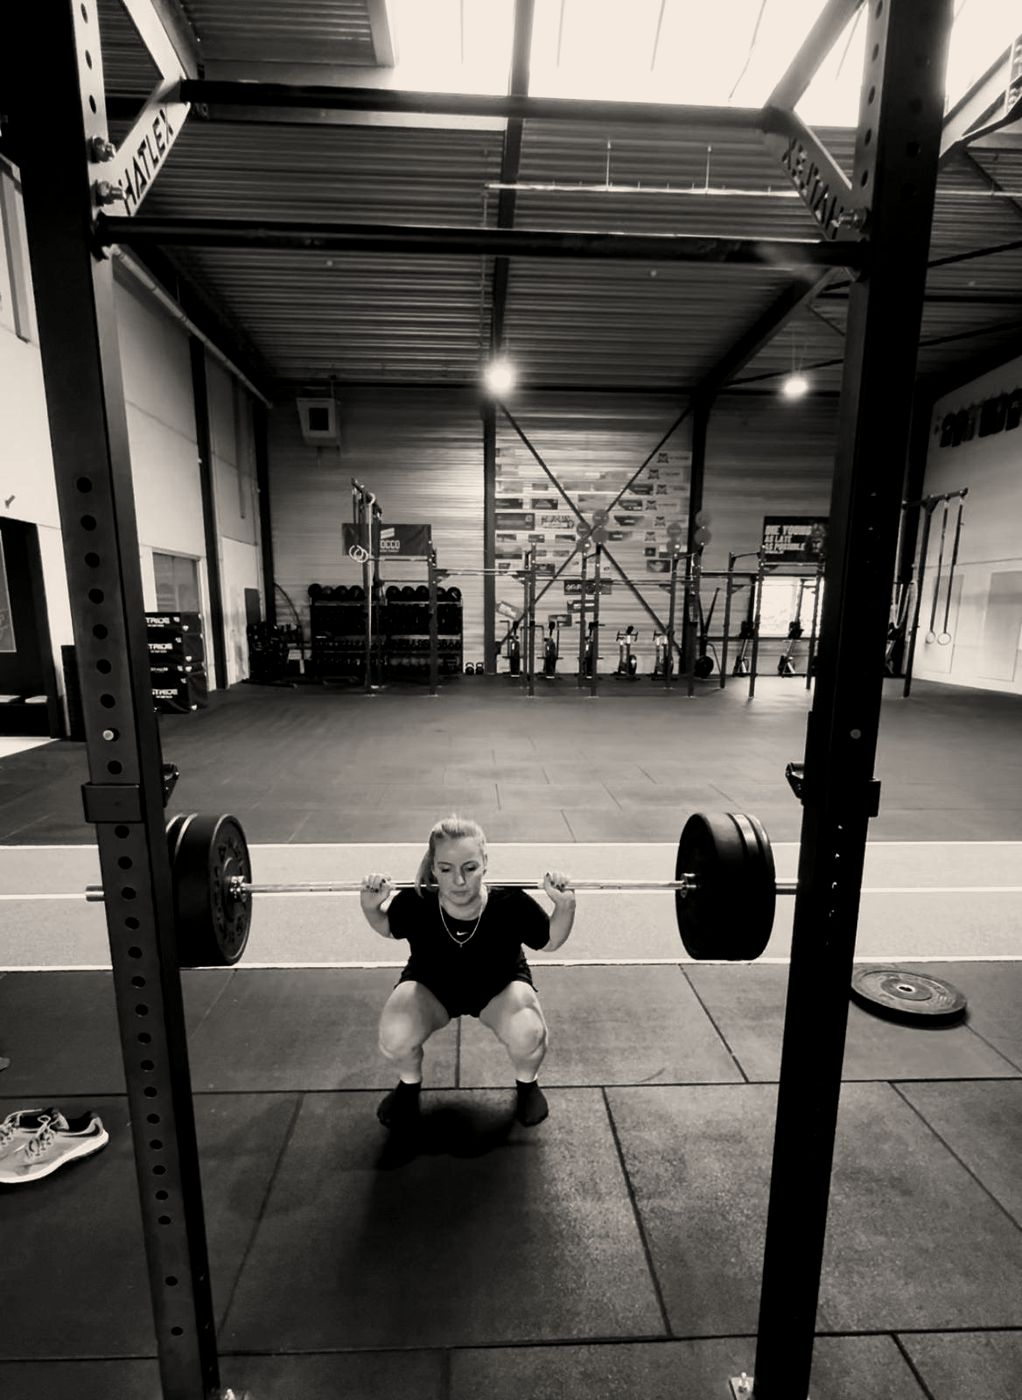
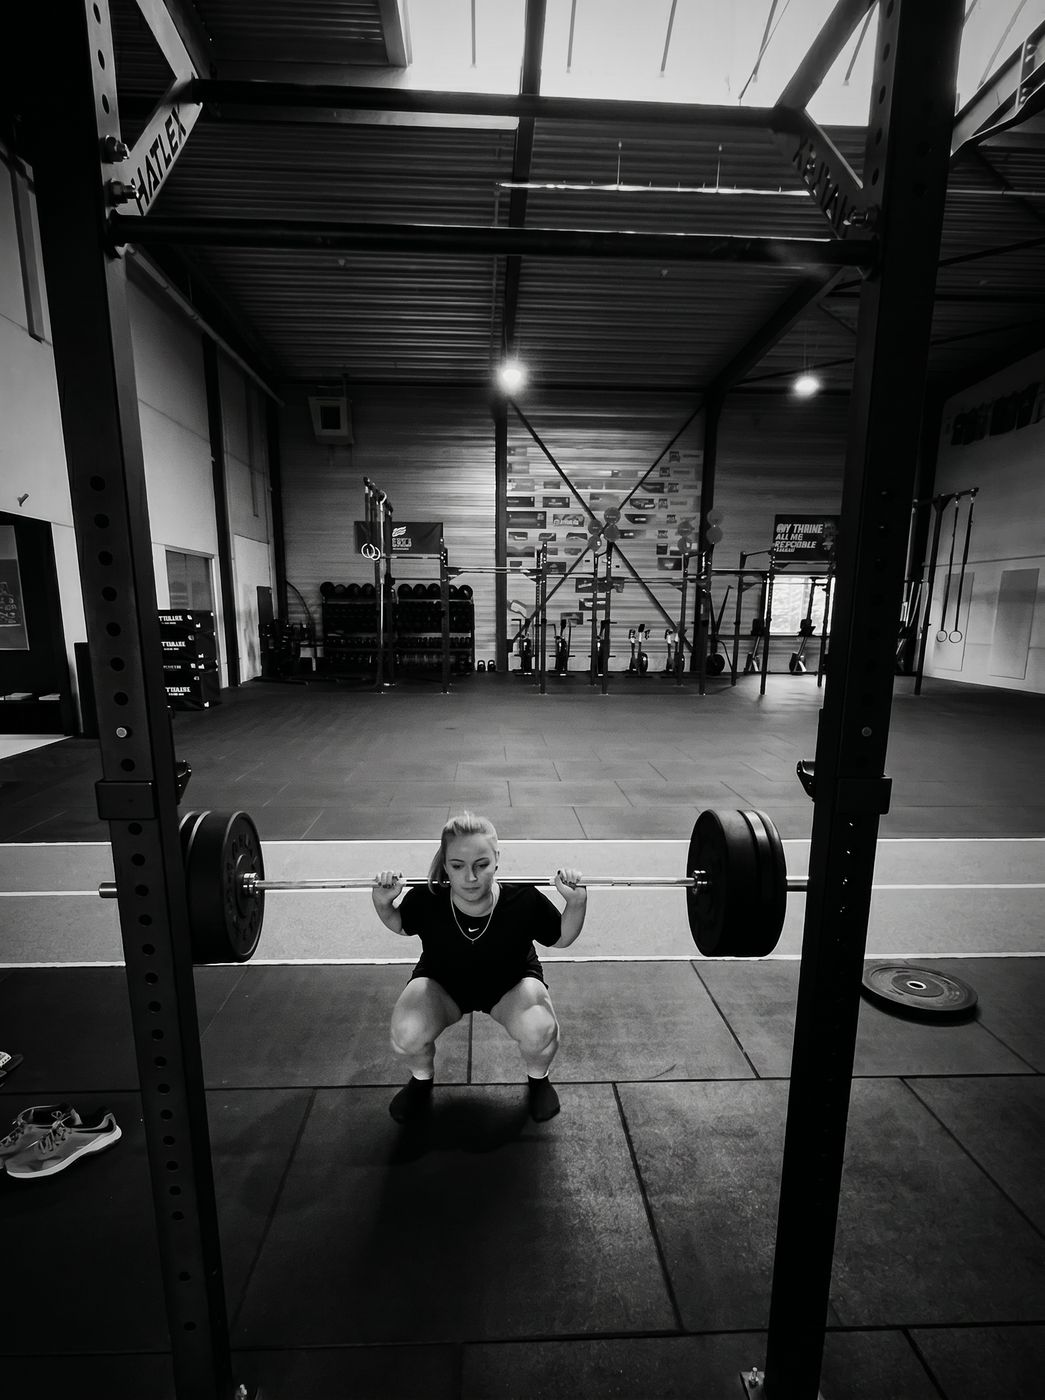
Foto's door Higgsfield gehaald: cinematische relight in de originele site-vibe
Alle 10 eigen foto's via Nano Banana (image-to-image) herbelicht naar de
donkere, dramatische look van de oorspronkelijke stockfotografie — zelfde
mensen, zelfde scènes (gezichten geverifieerd identiek), alleen licht en
kleurgrading anders. Cache-bust ?v=2 → ?v=3.

diff --git a/index.html b/index.html
@@ -152,10 +152,10 @@
     <section class="hero">
       <div class="hero__media">
         <picture>
-          <source media="(min-width: 880px)" srcset="assets/img/hero-desktop.jpg?v=2" />
-          <img src="assets/img/hero-mobile.jpg?v=2" alt="Leden trainen aan het rig bij Effort in Kapellen" fetchpriority="high" />
+          <source media="(min-width: 880px)" srcset="assets/img/hero-desktop.jpg?v=3" />
+          <img src="assets/img/hero-mobile.jpg?v=3" alt="Leden trainen aan het rig bij Effort in Kapellen" fetchpriority="high" />
         </picture>
-        <video muted loop playsinline preload="none" poster="assets/img/hero-mobile.jpg?v=2" aria-hidden="true">
+        <video muted loop playsinline preload="none" poster="assets/img/hero-mobile.jpg?v=3" aria-hidden="true">
           <source src="assets/video/hero.mp4" type="video/mp4" />
         </video>
       </div>
@@ -195,7 +195,7 @@
           </div>
           <div class="media-frame media-frame--wide reveal" data-d="1">
             <!-- Vervang door een échte foto van de box / community -->
-            <img src="assets/img/gym.jpg?v=2" alt="De trainingsvloer van Effort België" loading="lazy" />
+            <img src="assets/img/gym.jpg?v=3" alt="De trainingsvloer van Effort België" loading="lazy" />
             <span class="media-frame__tag">De box · Kapellen</span>
           </div>
         </div>
@@ -219,21 +219,21 @@
         </div>
         <div class="grid grid--3">
           <article class="card offer reveal">
-            <div class="offer__img"><img src="assets/img/class-group.jpg?v=2" alt="Groepsles in volle gang" loading="lazy" /></div>
+            <div class="offer__img"><img src="assets/img/class-group.jpg?v=3" alt="Groepsles in volle gang" loading="lazy" /></div>
             <div class="offer__body">
               <h3>Groeps<span>lessen</span></h3>
               <p>Bewegen, sterker worden en op een gezonde manier grenzen verleggen. Constant gevarieerde, functionele bewegingen onder hoge intensiteit — in groepen van max. 10, individueel aangepast.</p>
             </div>
           </article>
           <article class="card offer reveal" data-d="1">
-            <div class="offer__img"><img src="assets/img/barbell.jpg?v=2" alt="Geladen barbell op de gym vloer" loading="lazy" /></div>
+            <div class="offer__img"><img src="assets/img/barbell.jpg?v=3" alt="Geladen barbell op de gym vloer" loading="lazy" /></div>
             <div class="offer__body">
               <h3>Open <span>Gym</span></h3>
               <p>Liever solo? Train vrij tijdens de open gym uren, met dagelijkse toegang. Met of zonder persoonlijk programma — helemaal jouw personal effort.</p>
             </div>
           </article>
           <article class="card offer reveal" data-d="2">
-            <div class="offer__img"><img src="assets/img/grip.jpg?v=2" alt="Leden aan de pull-up bar bij Effort" loading="lazy" /></div>
+            <div class="offer__img"><img src="assets/img/grip.jpg?v=3" alt="Leden aan de pull-up bar bij Effort" loading="lazy" /></div>
             <div class="offer__body">
               <h3>Personal <span>Training</span></h3>
               <p>1-op-1 begeleiding door onze specialisten. In samenwerking met kinepraktijk <strong>Level up</strong> ook voor revalidatie na blessures.</p>
@@ -271,7 +271,7 @@
     <section class="section">
       <div class="container">
         <div class="cta-band reveal">
-          <div class="cta-band__bg"><img src="assets/img/team.jpg?v=2" alt="" loading="lazy" /></div>
+          <div class="cta-band__bg"><img src="assets/img/team.jpg?v=3" alt="" loading="lazy" /></div>
           <div class="cta-band__inner">
             <p class="eyebrow">It's a team effort</p>
             <h2 class="mt-s">Een plek waar iedereen <span class="text-red">zichzelf</span> kan zijn</h2>
@@ -341,7 +341,7 @@
     <section class="section">
       <div class="container">
         <div class="cta-band reveal">
-          <div class="cta-band__bg"><img src="assets/img/kettlebells.jpg?v=2" alt="" loading="lazy" /></div>
+          <div class="cta-band__bg"><img src="assets/img/kettlebells.jpg?v=3" alt="" loading="lazy" /></div>
           <div class="cta-band__inner">
             <p class="eyebrow">Get started</p>
             <h2 class="mt-s">Ben jij er <span class="text-red">klaar</span> voor?</h2>

diff --git a/aanbod.html b/aanbod.html
@@ -96,7 +96,7 @@
 
   <main>
     <section class="page-hero">
-      <div class="page-hero__bg"><img src="assets/img/class-group.jpg?v=2" alt="" /></div>
+      <div class="page-hero__bg"><img src="assets/img/class-group.jpg?v=3" alt="" /></div>
       <div class="container">
         <p class="crumbs"><a href="index.html">Home</a> / <span>Aanbod</span></p>
         <p class="eyebrow">Aanbod</p>
@@ -110,7 +110,7 @@
       <div class="container">
         <div class="split">
           <div class="media-frame media-frame--tall reveal">
-            <img src="assets/img/class-group.jpg?v=2" alt="Groepsles in volle gang" loading="lazy" />
+            <img src="assets/img/class-group.jpg?v=3" alt="Groepsles in volle gang" loading="lazy" />
             <span class="media-frame__tag">Groepslessen · max. 10</span>
           </div>
           <div class="reveal" data-d="1">
@@ -138,7 +138,7 @@
             <a class="link-arrow mt-m" href="prijzen.html">Bekijk de Open Gym formule <span>→</span></a>
           </div>
           <div class="media-frame media-frame--tall reveal" data-d="1">
-            <img src="assets/img/barbell.jpg?v=2" alt="Geladen barbell in de box" loading="lazy" />
+            <img src="assets/img/barbell.jpg?v=3" alt="Geladen barbell in de box" loading="lazy" />
             <span class="media-frame__tag">Open Gym · dagelijks</span>
           </div>
         </div>
@@ -150,7 +150,7 @@
       <div class="container">
         <div class="split">
           <div class="media-frame media-frame--tall reveal">
-            <img src="assets/img/grip.jpg?v=2" alt="Leden aan de pull-up bar bij Effort" loading="lazy" />
+            <img src="assets/img/grip.jpg?v=3" alt="Leden aan de pull-up bar bij Effort" loading="lazy" />
             <span class="media-frame__tag">Personal Training · 1-op-1</span>
           </div>
           <div class="reveal" data-d="1">
@@ -166,7 +166,7 @@
 
     <!-- SOORTEN LESSEN -->
     <section class="section" id="lestypes" style="position:relative; overflow:hidden; background:var(--ink-1); border-top:1px solid var(--line);">
-      <div class="page-hero__bg" style="opacity:.12; z-index:0;"><img src="assets/img/chalk.jpg?v=2" alt="" loading="lazy" /></div>
+      <div class="page-hero__bg" style="opacity:.12; z-index:0;"><img src="assets/img/chalk.jpg?v=3" alt="" loading="lazy" /></div>
       <div class="container" style="position:relative; z-index:2;">
         <div class="section-head reveal">
           <p class="eyebrow">Soorten lessen</p>
@@ -207,7 +207,7 @@
     <section class="section section--tight">
       <div class="container">
         <div class="cta-band reveal">
-          <div class="cta-band__bg"><img src="assets/img/kettlebells.jpg?v=2" alt="" loading="lazy" /></div>
+          <div class="cta-band__bg"><img src="assets/img/kettlebells.jpg?v=3" alt="" loading="lazy" /></div>
           <div class="cta-band__inner">
             <p class="eyebrow">Get started</p>
             <h2 class="mt-s">Probeer het gewoon eens</h2>

diff --git a/crossfit-wuustwezel.html b/crossfit-wuustwezel.html
@@ -96,7 +96,7 @@
 
   <main>
     <section class="page-hero">
-      <div class="page-hero__bg"><img src="assets/img/gym.jpg?v=2" alt="" /></div>
+      <div class="page-hero__bg"><img src="assets/img/gym.jpg?v=3" alt="" /></div>
       <div class="container">
         <p class="eyebrow">Regio · Wuustwezel</p>
         <h1>CrossFit <br /><span class="text-red">vlakbij Wuustwezel</span></h1>
@@ -113,7 +113,7 @@
       <div class="container">
         <div class="split">
           <div class="media-frame media-frame--tall reveal">
-            <img src="assets/img/class-group.jpg?v=2" alt="Groepsles bij Effort, de CrossFit-box op de drempel van Wuustwezel" loading="lazy" />
+            <img src="assets/img/class-group.jpg?v=3" alt="Groepsles bij Effort, de CrossFit-box op de drempel van Wuustwezel" loading="lazy" />
             <span class="media-frame__tag">Effort · Gooreind</span>
           </div>
           <div class="reveal" data-d="1">
@@ -139,7 +139,7 @@
             <a class="link-arrow mt-m" href="get-started.html">Zo verloopt je eerste les <span>→</span></a>
           </div>
           <div class="media-frame media-frame--tall reveal" data-d="1">
-            <img src="assets/img/grip.jpg?v=2" alt="Leden aan de pull-up bar bij Effort" loading="lazy" />
+            <img src="assets/img/grip.jpg?v=3" alt="Leden aan de pull-up bar bij Effort" loading="lazy" />
             <span class="media-frame__tag">Op jouw niveau</span>
           </div>
         </div>

diff --git a/crossfit-kalmthout.html b/crossfit-kalmthout.html
@@ -96,7 +96,7 @@
 
   <main>
     <section class="page-hero">
-      <div class="page-hero__bg"><img src="assets/img/gym.jpg?v=2" alt="" /></div>
+      <div class="page-hero__bg"><img src="assets/img/gym.jpg?v=3" alt="" /></div>
       <div class="container">
         <p class="eyebrow">Regio · Kalmthout</p>
         <h1>CrossFit <br /><span class="text-red">vlakbij Kalmthout</span></h1>
@@ -113,7 +113,7 @@
       <div class="container">
         <div class="split">
           <div class="media-frame media-frame--tall reveal">
-            <img src="assets/img/class-group.jpg?v=2" alt="Groepsles bij Effort, de CrossFit-box vlakbij Kalmthout" loading="lazy" />
+            <img src="assets/img/class-group.jpg?v=3" alt="Groepsles bij Effort, de CrossFit-box vlakbij Kalmthout" loading="lazy" />
             <span class="media-frame__tag">Effort · Gooreind</span>
           </div>
           <div class="reveal" data-d="1">
@@ -139,7 +139,7 @@
             <a class="link-arrow mt-m" href="get-started.html">Zo verloopt je eerste les <span>→</span></a>
           </div>
           <div class="media-frame media-frame--tall reveal" data-d="1">
-            <img src="assets/img/grip.jpg?v=2" alt="Leden aan de pull-up bar bij Effort" loading="lazy" />
+            <img src="assets/img/grip.jpg?v=3" alt="Leden aan de pull-up bar bij Effort" loading="lazy" />
             <span class="media-frame__tag">Op jouw niveau</span>
           </div>
         </div>

diff --git a/crossfit-brasschaat.html b/crossfit-brasschaat.html
@@ -96,7 +96,7 @@
 
   <main>
     <section class="page-hero">
-      <div class="page-hero__bg"><img src="assets/img/gym.jpg?v=2" alt="" /></div>
+      <div class="page-hero__bg"><img src="assets/img/gym.jpg?v=3" alt="" /></div>
       <div class="container">
         <p class="eyebrow">Regio · Brasschaat</p>
         <h1>CrossFit <br /><span class="text-red">voor Brasschaat</span></h1>
@@ -113,7 +113,7 @@
       <div class="container">
         <div class="split">
           <div class="media-frame media-frame--tall reveal">
-            <img src="assets/img/class-group.jpg?v=2" alt="Groepsles bij Effort, de CrossFit-box voor Brasschaat" loading="lazy" />
+            <img src="assets/img/class-group.jpg?v=3" alt="Groepsles bij Effort, de CrossFit-box voor Brasschaat" loading="lazy" />
             <span class="media-frame__tag">Effort · Gooreind</span>
           </div>
           <div class="reveal" data-d="1">
@@ -139,7 +139,7 @@
             <a class="link-arrow mt-m" href="get-started.html">Zo verloopt je eerste les <span>→</span></a>
           </div>
           <div class="media-frame media-frame--tall reveal" data-d="1">
-            <img src="assets/img/grip.jpg?v=2" alt="Leden aan de pull-up bar bij Effort" loading="lazy" />
+            <img src="assets/img/grip.jpg?v=3" alt="Leden aan de pull-up bar bij Effort" loading="lazy" />
             <span class="media-frame__tag">Op jouw niveau</span>
           </div>
         </div>

diff --git a/prijzen.html b/prijzen.html
@@ -102,7 +102,7 @@
 
   <main>
     <section class="page-hero">
-      <div class="page-hero__bg"><img src="assets/img/chalk.jpg?v=2" alt="" /></div>
+      <div class="page-hero__bg"><img src="assets/img/chalk.jpg?v=3" alt="" /></div>
       <div class="container">
         <p class="crumbs"><a href="index.html">Home</a> / <span>Prijzen</span></p>
         <p class="eyebrow">Prijzen</p>
@@ -185,7 +185,7 @@
     <section class="section section--tight">
       <div class="container">
         <div class="cta-band reveal">
-          <div class="cta-band__bg"><img src="assets/img/barbell.jpg?v=2" alt="" loading="lazy" /></div>
+          <div class="cta-band__bg"><img src="assets/img/barbell.jpg?v=3" alt="" loading="lazy" /></div>
           <div class="cta-band__inner">
             <p class="eyebrow">Get started</p>
             <h2 class="mt-s">Klaar om te <span class="text-red">starten</span>?</h2>

diff --git a/get-started.html b/get-started.html
@@ -102,7 +102,7 @@
 
   <main>
     <section class="page-hero">
-      <div class="page-hero__bg"><img src="assets/img/kit.jpg?v=2" alt="" /></div>
+      <div class="page-hero__bg"><img src="assets/img/kit.jpg?v=3" alt="" /></div>
       <div class="container">
         <p class="crumbs"><a href="index.html">Home</a> / <span>Get started</span></p>
         <p class="eyebrow">Get started</p>
@@ -135,7 +135,7 @@
       <div class="container">
         <div class="split">
           <div class="media-frame media-frame--tall reveal">
-            <img src="assets/img/kit.jpg?v=2" alt="Samen trainen tijdens een les bij Effort" loading="lazy" />
+            <img src="assets/img/kit.jpg?v=3" alt="Samen trainen tijdens een les bij Effort" loading="lazy" />
             <span class="media-frame__tag">Klaar voor de start</span>
           </div>
           <div class="reveal" data-d="1">

diff --git a/team.html b/team.html
@@ -96,7 +96,7 @@
 
   <main>
     <section class="page-hero">
-      <div class="page-hero__bg"><img src="assets/img/team.jpg?v=2" alt="" /></div>
+      <div class="page-hero__bg"><img src="assets/img/team.jpg?v=3" alt="" /></div>
       <div class="container">
         <p class="crumbs"><a href="index.html">Home</a> / <span>Team</span></p>
         <p class="eyebrow">Het team</p>
@@ -202,7 +202,7 @@
     <section class="section section--tight">
       <div class="container">
         <div class="cta-band reveal">
-          <div class="cta-band__bg"><img src="assets/img/class-group.jpg?v=2" alt="" loading="lazy" /></div>
+          <div class="cta-band__bg"><img src="assets/img/class-group.jpg?v=3" alt="" loading="lazy" /></div>
           <div class="cta-band__inner">
             <p class="eyebrow">Get started</p>
             <h2 class="mt-s">Train mee met ons team</h2>
